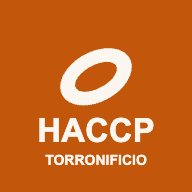
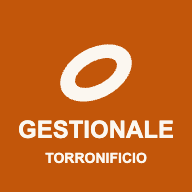
Add files via upload

Changed region(s): [[0.0938, 0.5938, 0.9062, 0.75], [0.3125, 0.2188, 0.6875, 0.5625], [0.2188, 0.7812, 0.7812, 0.875]]

diff --git a/index.html b/index.html
@@ -3,13 +3,13 @@
 <head>
 <meta charset="utf-8">
 <meta name="viewport" content="width=device-width, initial-scale=1">
-<title>HACCP Torronificio</title>
+<title>Gestionale Torronificio</title>
 <link rel="manifest" href="manifest.json">
 <link rel="icon" href="icon-192.png">
 <link rel="apple-touch-icon" href="icon-192.png">
 <meta name="theme-color" content="#2B2013">
 <meta name="apple-mobile-web-app-capable" content="yes">
-<meta name="apple-mobile-web-app-title" content="HACCP">
+<meta name="apple-mobile-web-app-title" content="Gestionale">
 <style>
 body{margin:0;font-family:-apple-system,"Segoe UI",Roboto,Arial,sans-serif;background:#FBF7F0;color:#2B2013}
 .box{max-width:440px;margin:70px auto;padding:24px;text-align:center;background:#fff;border:1px solid #e3d6c2;border-radius:14px}
@@ -20,12 +20,12 @@ button{background:#C2560A;color:#fff;border:0;border-radius:10px;padding:11px 18
 </style>
 </head>
 <body>
-<div class="box" id="msg"><img src="icon-192.png" alt=""><h2>HACCP Torronificio</h2><p>Avvio in corso…</p></div>
+<div class="box" id="msg"><img src="icon-192.png" alt=""><h2>Gestionale Torronificio</h2><p>Avvio in corso…</p></div>
 <script>
 (function () {
   var EXEC = 'https://script.google.com/macros/s/AKfycbzvXKcWXwXYdef6Bb5qjWuZ2lskjA6jC_FVMjQMu9Gt_gYqeAwCFrYEPCPDcTJRtcUE6Q/exec';
   var CACHE = 'haccp-app', KEY = 'app.html';
-  function msg(h) { document.getElementById('msg').innerHTML = '<img src="icon-192.png" alt=""><h2>HACCP Torronificio</h2>' + h; }
+  function msg(h) { document.getElementById('msg').innerHTML = '<img src="icon-192.png" alt=""><h2>Gestionale Torronificio</h2>' + h; }
   if ('serviceWorker' in navigator) navigator.serviceWorker.register('sw.js').catch(function () {});
   try { if (navigator.storage && navigator.storage.persist) navigator.storage.persist(); } catch (e) {}
   var m = location.hash.match(/k=([^&]+)/);

diff --git a/sw.js b/sw.js
@@ -1,5 +1,5 @@
-/* HACCP Torronificio – funziona anche senza segnale */
-var VER = 'haccp-shell-v1';
+/* Gestionale Torronificio – funziona anche senza segnale */
+var VER = 'haccp-shell-v2';
 var SHELL = ['./', 'index.html', 'manifest.json', 'icon-192.png', 'icon-512.png'];
 self.addEventListener('install', function (e) { e.waitUntil(caches.open(VER).then(function (c) { return c.addAll(SHELL); }).then(function () { return self.skipWaiting(); })); });
 self.addEventListener('activate', function (e) { e.waitUntil(caches.keys().then(function (ks) { return Promise.all(ks.filter(function (k) { return k.indexOf('haccp-shell-') === 0 && k !== VER; }).map(function (k) { return caches.delete(k); })); }).then(function () { return self.clients.claim(); })); });

diff --git a/README.md b/README.md
@@ -1,4 +1,4 @@
-# HACCP Torronificio
+# Gestionale Torronificio
 
 App del Torronificio delle Madonie (Blufi).
 
